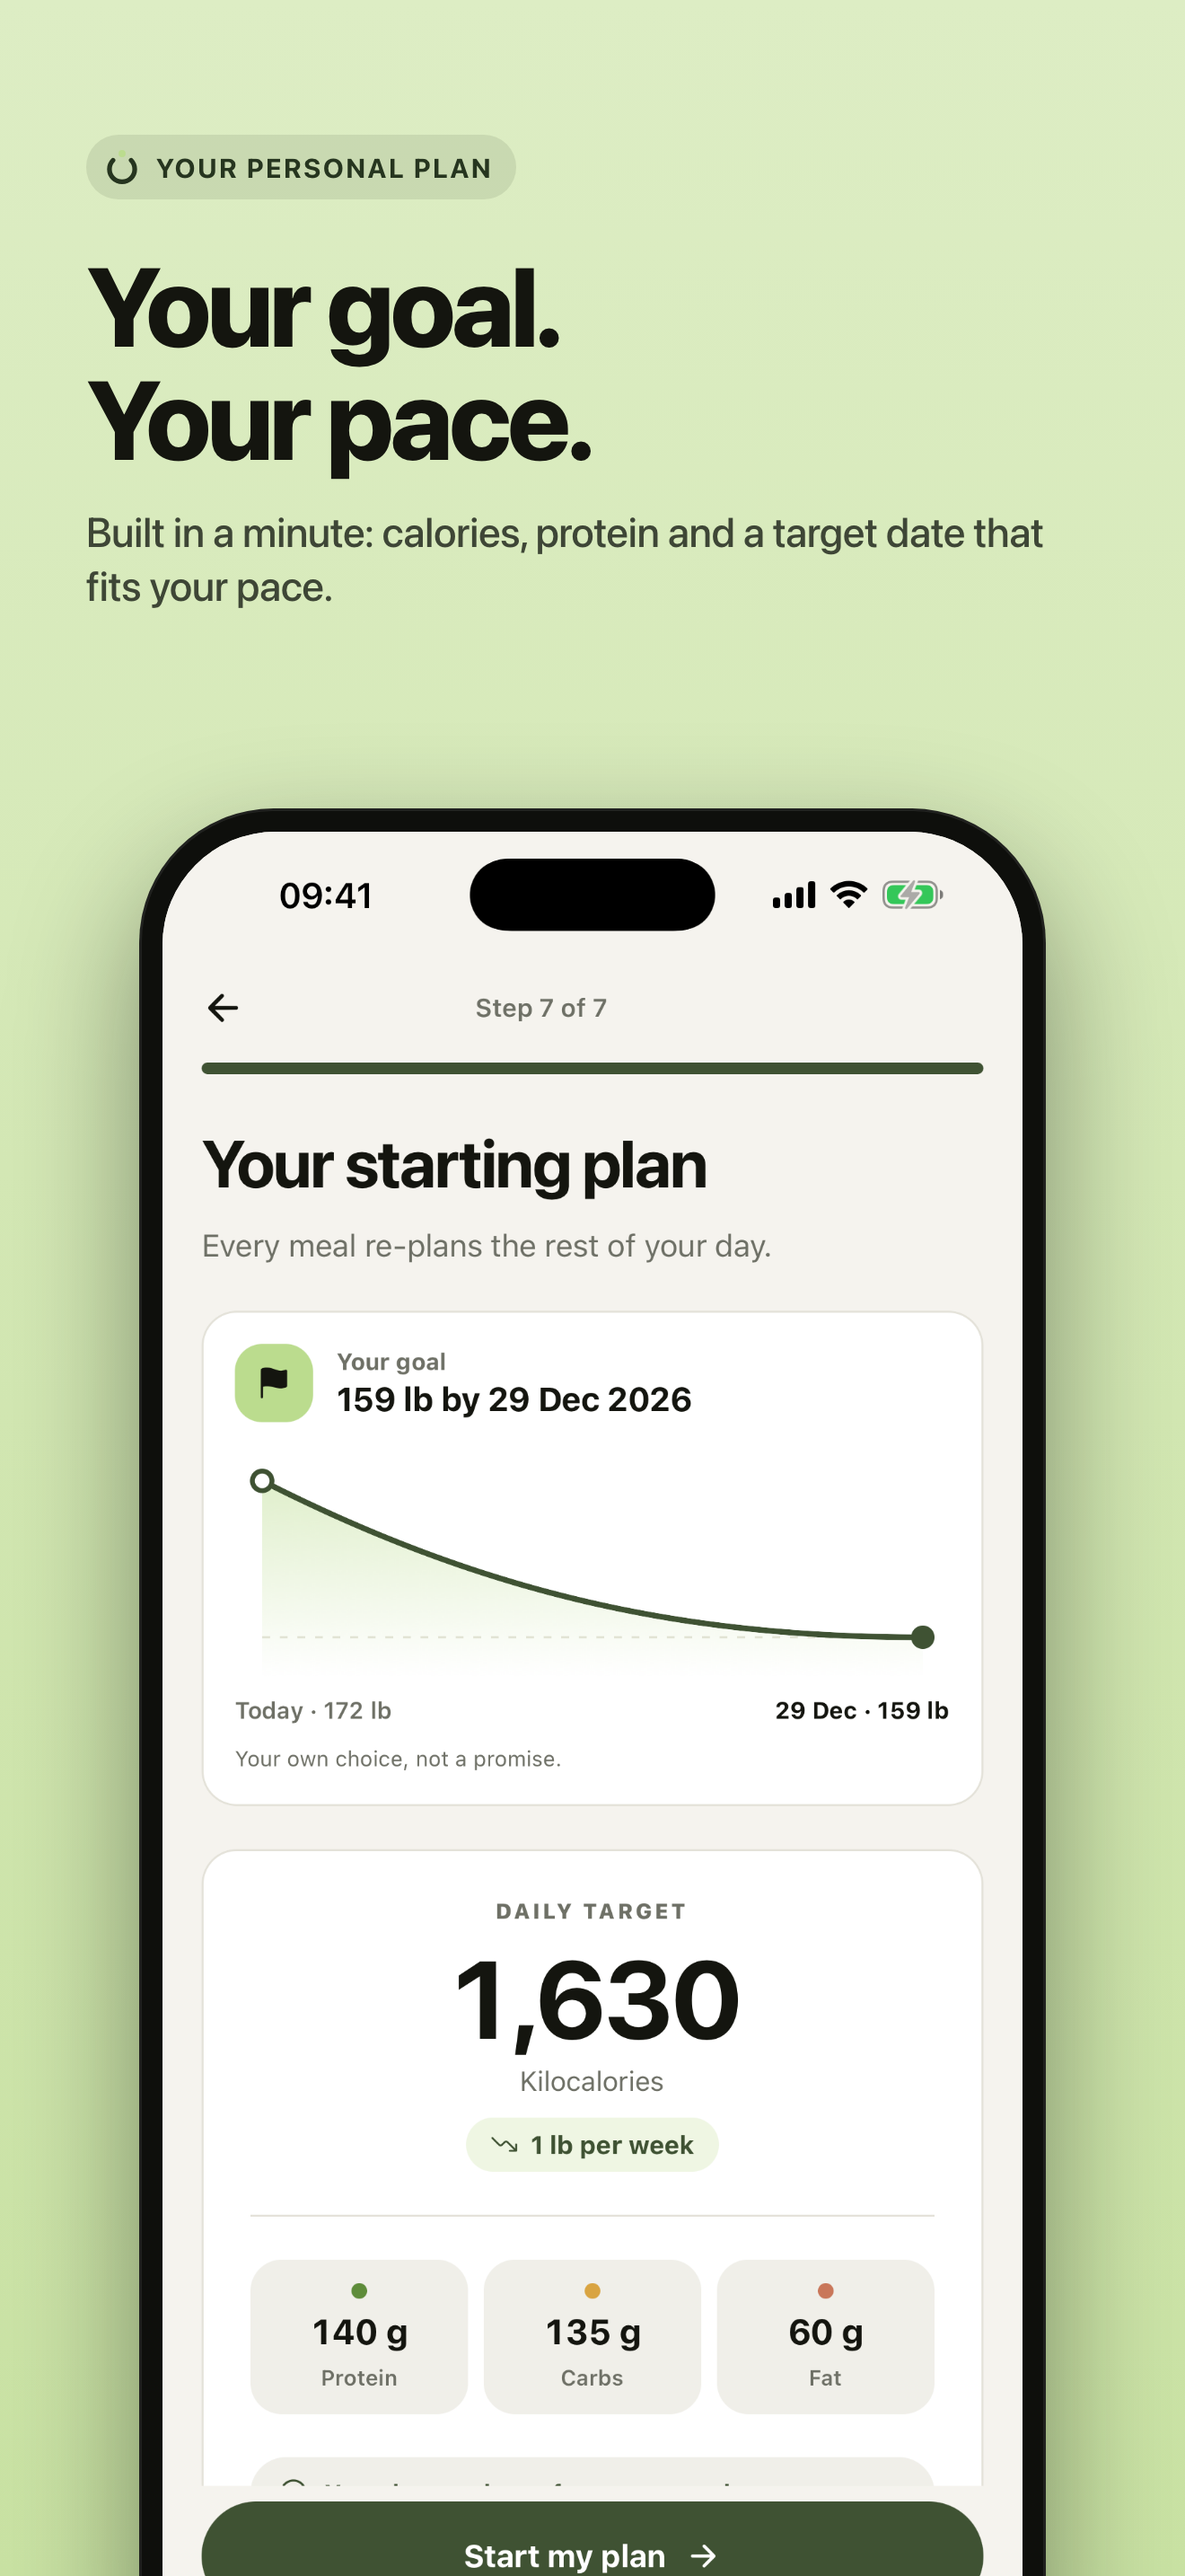
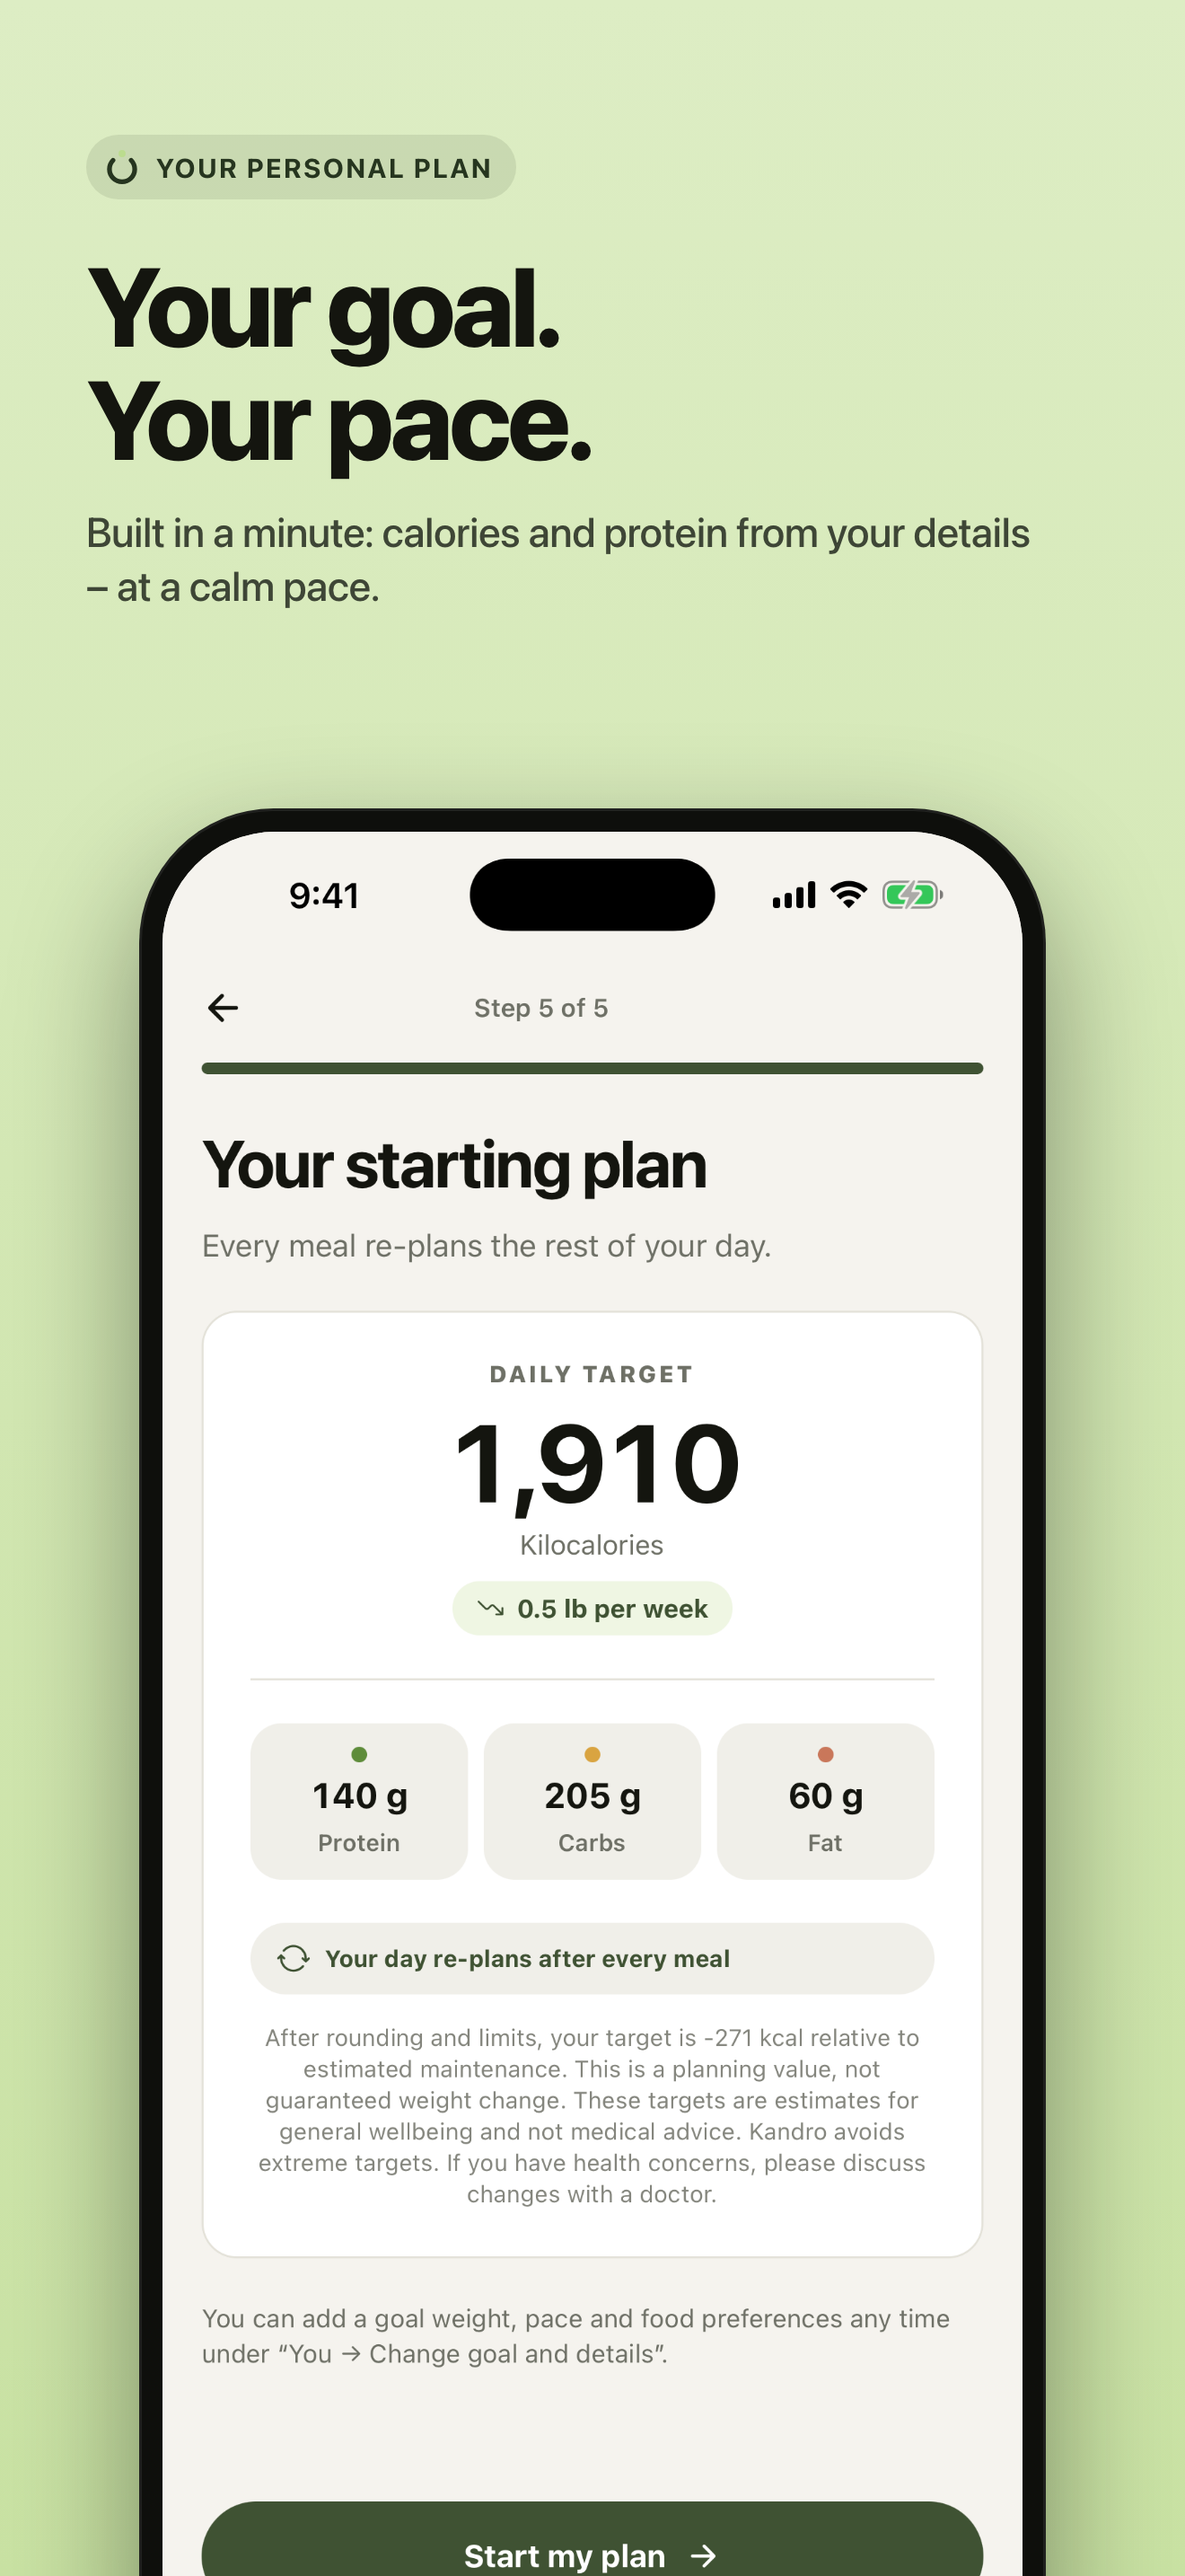
Re-capture Today and start-plan screenshots from the 1.0.4 build; Pro copy without the 60/day cap
Screens 04 and 06 now show the new day switcher and the five-step plan
(no target date). The plan subline no longer promises a target date.
Profile and Plan Pro cards sell unlimited logging instead of a quota.

diff --git a/src/i18n/de.ts b/src/i18n/de.ts
@@ -676,8 +676,8 @@ export const de = {
     loggedText: (kcal: string, protein: number) => `Noch ${kcal} kcal und ${protein} g Protein übrig · Tagesstand ansehen`,
     catalogNote: "Schätzwerte für die angezeigte Portion. Passe sie vor dem Eintragen an das an, was du wirklich isst.",
     hint: 'Wähle eine Situation für drei praktische Ideen.',
-    proTitle: "Mehr Foto- und Textanalysen",
-    proText: 'Bis zu 60 KI-Foto- und Freitextanalysen pro Tag freischalten.',
+    proTitle: "Jede Mahlzeit in Sekunden",
+    proText: 'Mit Kandro Pro erfasst du unbegrenzt per Foto, Sprache oder Text.',
     smallIdeas: 'Kleine Mahlzeiten ansehen',
     kcalOver: (value: string) => `${value} kcal über dem Tagesziel`,
     portionOfStandard: (percent: string) => `${percent} % einer Standardportion`,
@@ -760,7 +760,7 @@ export const de = {
     proActive: 'Kandro Pro ist aktiv',
     proTitle: 'Kandro Pro',
     proActiveText: 'Dein Zugang ist auf diesem Konto freigeschaltet.',
-    proText: 'Bis zu 60 KI-Foto- und Freitextanalysen pro Tag',
+    proText: 'Unbegrenzt per Foto, Sprache oder Text erfassen',
     proView: 'Kandro Pro ansehen',
     badgeActive: 'AKTIV',
     badgeView: 'ANSEHEN',

diff --git a/src/i18n/en.ts b/src/i18n/en.ts
@@ -675,8 +675,8 @@ export const en: typeof de = {
     loggedText: (kcal: string, protein: number) => `${kcal} kcal and ${protein} g protein left · see your day`,
     catalogNote: "Estimates for the portion shown. Adjust to what you actually eat before logging.",
     hint: 'Pick a situation for three practical ideas.',
-    proTitle: "More photo and text analyses",
-    proText: 'Unlock up to 60 AI photo and text analyses per day.',
+    proTitle: "Every meal in seconds",
+    proText: 'Kandro Pro lets you log as much as you like by photo, voice or text.',
     smallIdeas: 'View small meal ideas',
     kcalOver: (value: string) => `${value} kcal above your daily target`,
     portionOfStandard: (percent: string) => `${percent}% of a standard serving`,
@@ -759,7 +759,7 @@ export const en: typeof de = {
     proActive: 'Kandro Pro is active',
     proTitle: 'Kandro Pro',
     proActiveText: 'Your access is unlocked on this account.',
-    proText: 'Up to 60 AI photo and text analyses per day',
+    proText: 'Unlimited logging by photo, voice or text',
     proView: 'View Kandro Pro',
     badgeActive: 'ACTIVE',
     badgeView: 'VIEW',
